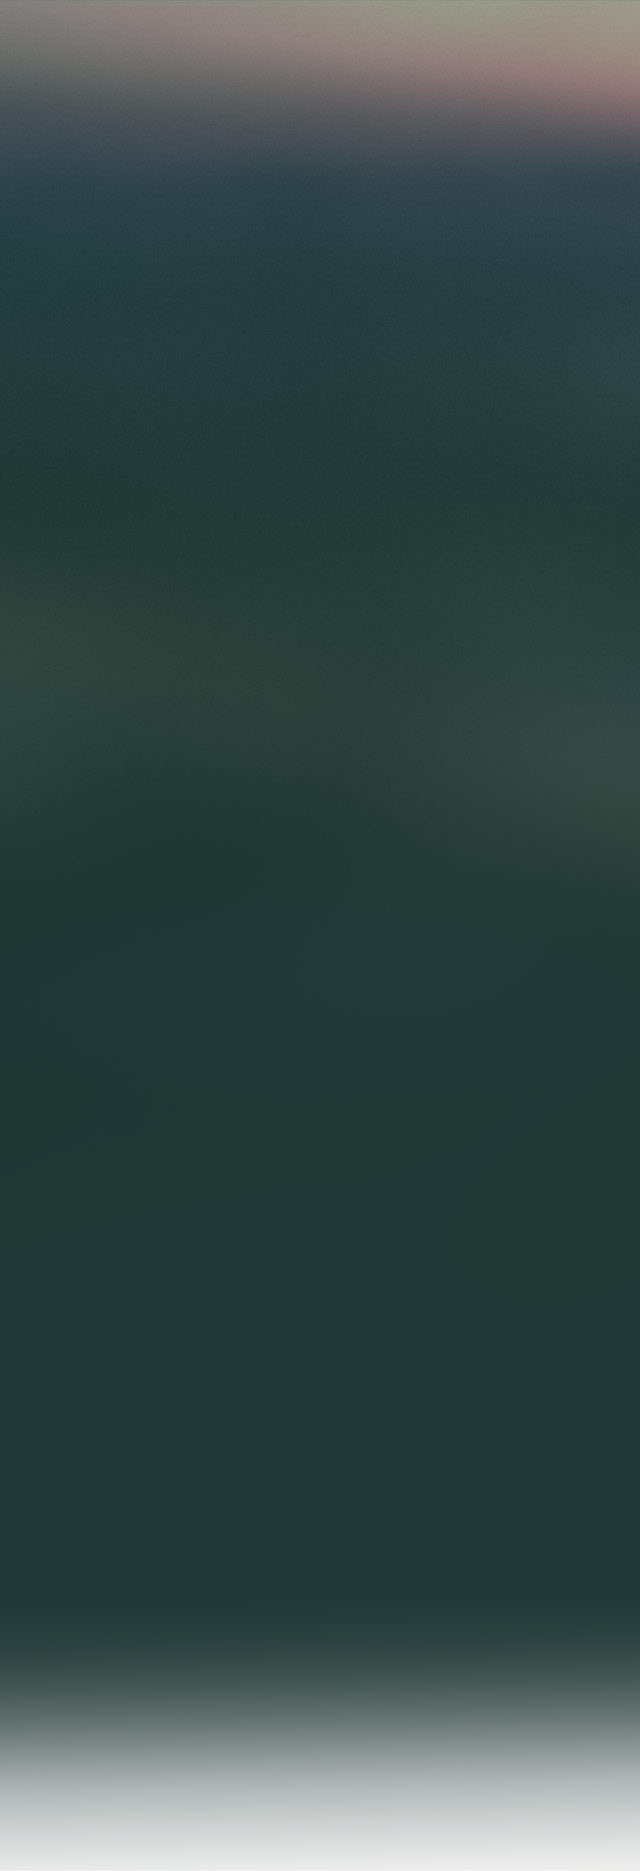
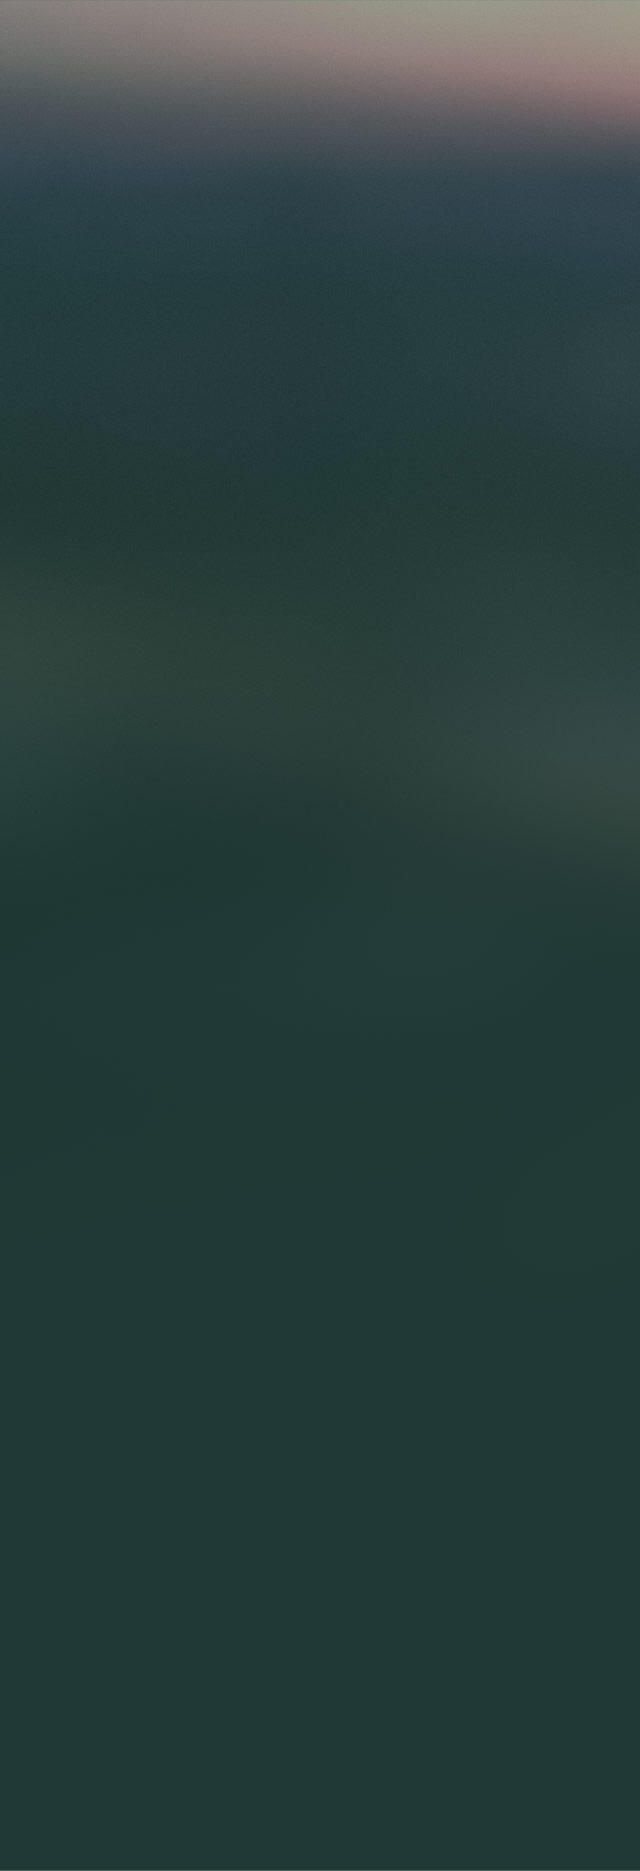
add commit of duoshuo in aboutme

Changed region(s): [[0.0, 0.868, 1.0, 1.0]]

diff --git a/css/style.css b/css/style.css
@@ -20,7 +20,7 @@
 
 	body
 	{
-		background: #e8e0e6 url('../images/bg.jpg') no-repeat;
+		background: #183026 url('../images/bg.jpg') no-repeat;
 		background-size: cover;
 		background-position: center 0;
 		background-attachment: fixed;
